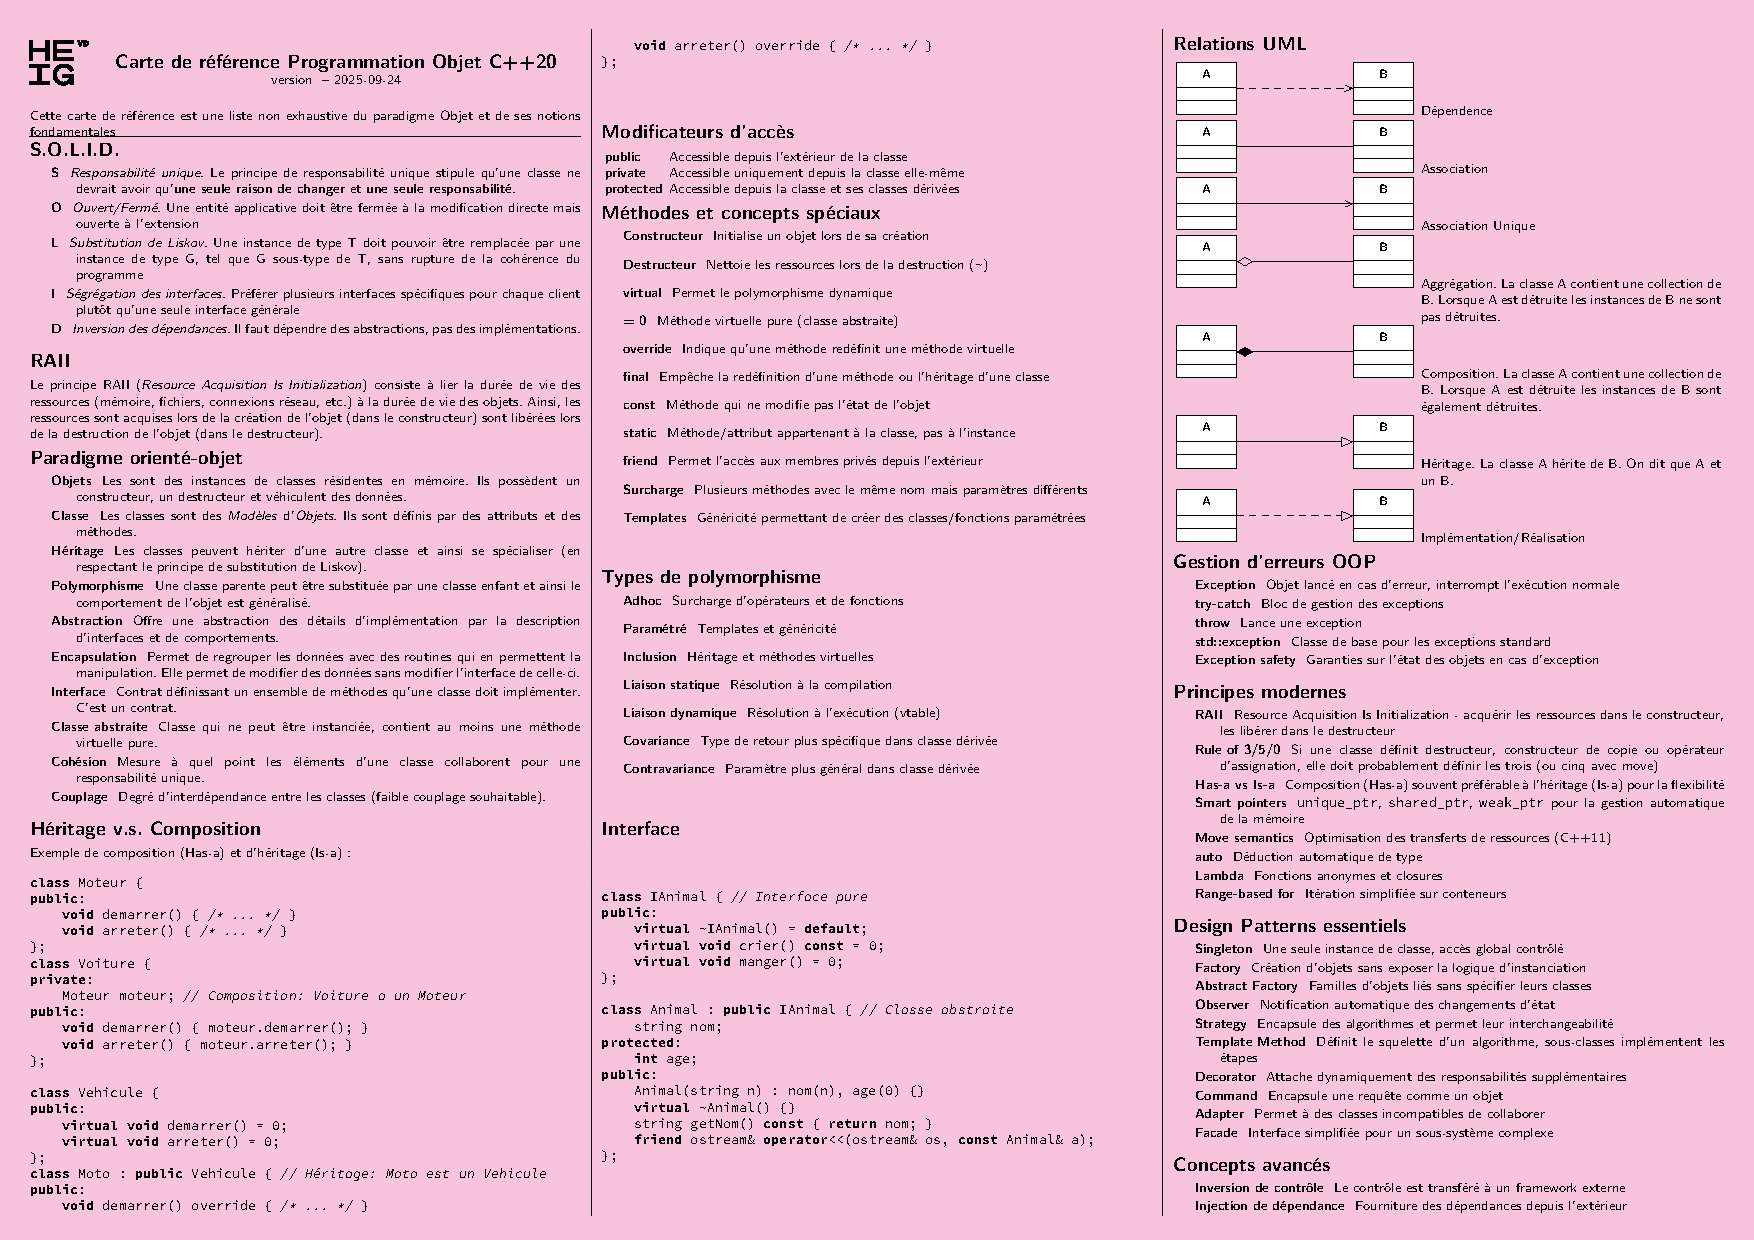
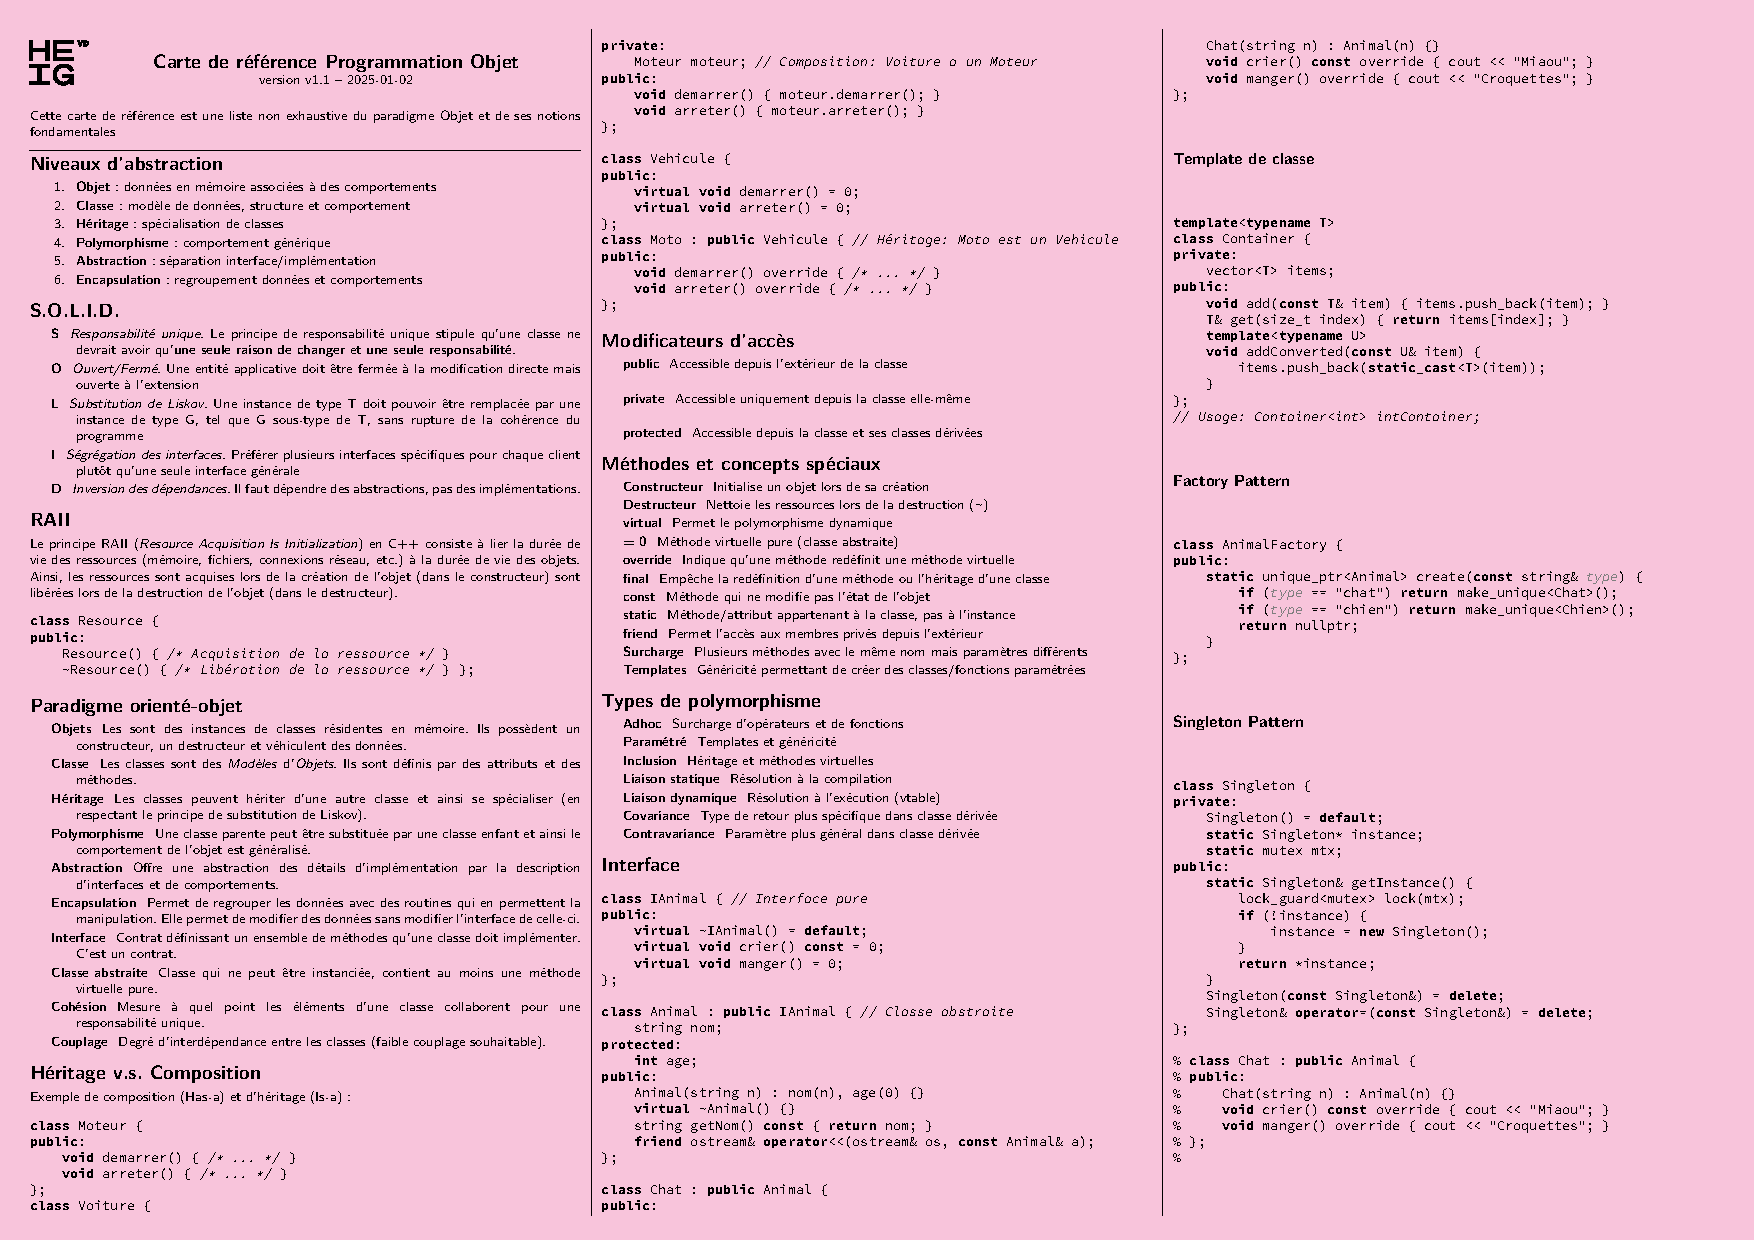
Final enhancements: added software engineering metrics, modern development practices, and comprehensive examples

diff --git a/refcard.tex b/refcard.tex
@@ -256,6 +256,26 @@ public:
         return nullptr;
     }
 };
+\end{lstlisting}
+
+\subsection*{Singleton Pattern}
+\begin{lstlisting}[language=C++]
+class Singleton {
+private:
+    Singleton() = default;
+    static Singleton* instance;
+    static mutex mtx;
+public:
+    static Singleton& getInstance() {
+        lock_guard<mutex> lock(mtx);
+        if (!instance) {
+            instance = new Singleton();
+        }
+        return *instance;
+    }
+    Singleton(const Singleton&) = delete;
+    Singleton& operator=(const Singleton&) = delete;
+};
 
 % class Chat : public Animal {
 % public:
@@ -311,6 +331,20 @@ public:
 \item[throw] Lance une exception
 \item[std::exception] Classe de base pour les exceptions standard
 \item[Exception safety] Garanties sur l'état des objets en cas d'exception
+\item[RAII exceptions] Les destructeurs libèrent automatiquement les ressources
+\item[Exception hierarchy] Hiérarchie d'exceptions spécialisées
+\item[Finally pattern] Nettoyage garanti (using/with en C\#/Python)
+\end{description}
+
+\section*{Métriques et qualité}
+\begin{description}
+\item[Complexité cyclomatique] Mesure de la complexité du code
+\item[Couplage afférent/efférent] Dépendances entrantes/sortantes
+\item[LCOM] Lack of Cohesion of Methods - mesure de cohésion
+\item[Instabilité] Ratio de dépendances sortantes sur totales
+\item[Distance] Équilibre entre abstraction et instabilité
+\item[Technical debt] Dette technique accumulée
+\item[Code smells] Indicateurs de problèmes de conception
 \end{description}
 
 \section*{Principes modernes}
@@ -468,6 +502,18 @@ class Context {
 \item[Actor model] Objets communiquant par messages
 \item[Lock-free] Structures sans verrous explicites
 \item[Atomic operations] Opérations indivisibles
+\end{description}
+
+\section*{Développement moderne}
+\begin{description}
+\item[Clean Code] Code lisible, maintenable et expressif
+\item[Domain-Driven Design] Modélisation orientée métier
+\item[Hexagonal Architecture] Architecture en couches découplées
+\item[Microservices] Architecture distribuée en services
+\item[Event Sourcing] Stockage des événements plutôt que de l'état
+\item[CQRS] Command Query Responsibility Segregation
+\item[Reactive Programming] Programmation orientée flux de données
+\item[DevOps integration] Intégration continue et déploiement
 \end{description}
 
 \section*{Anti-patterns et erreurs courantes}
